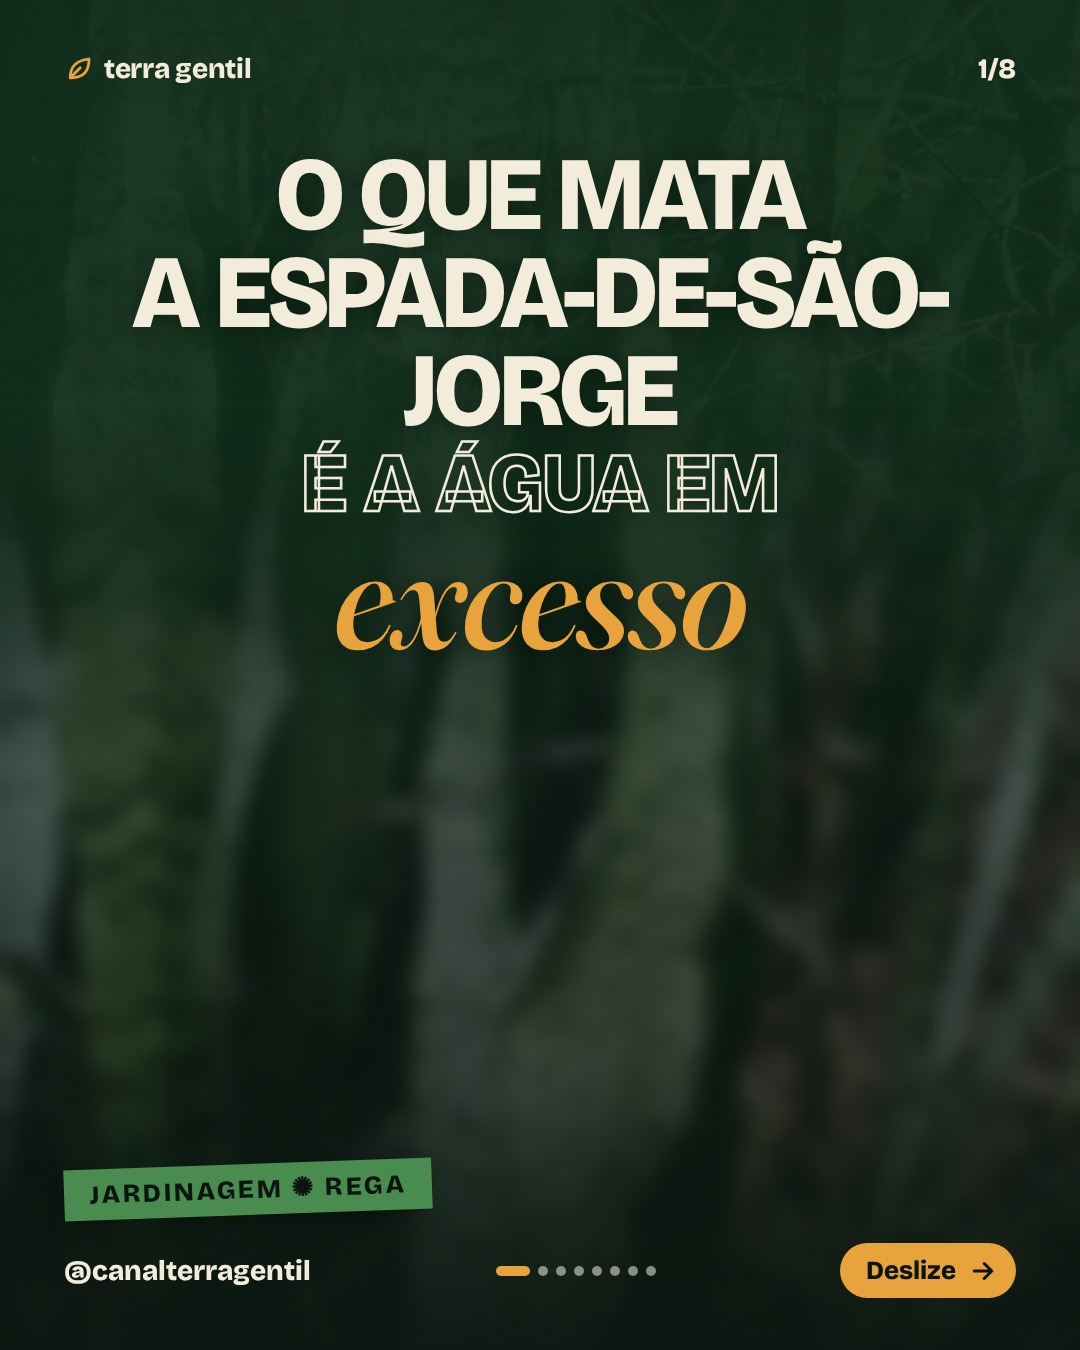
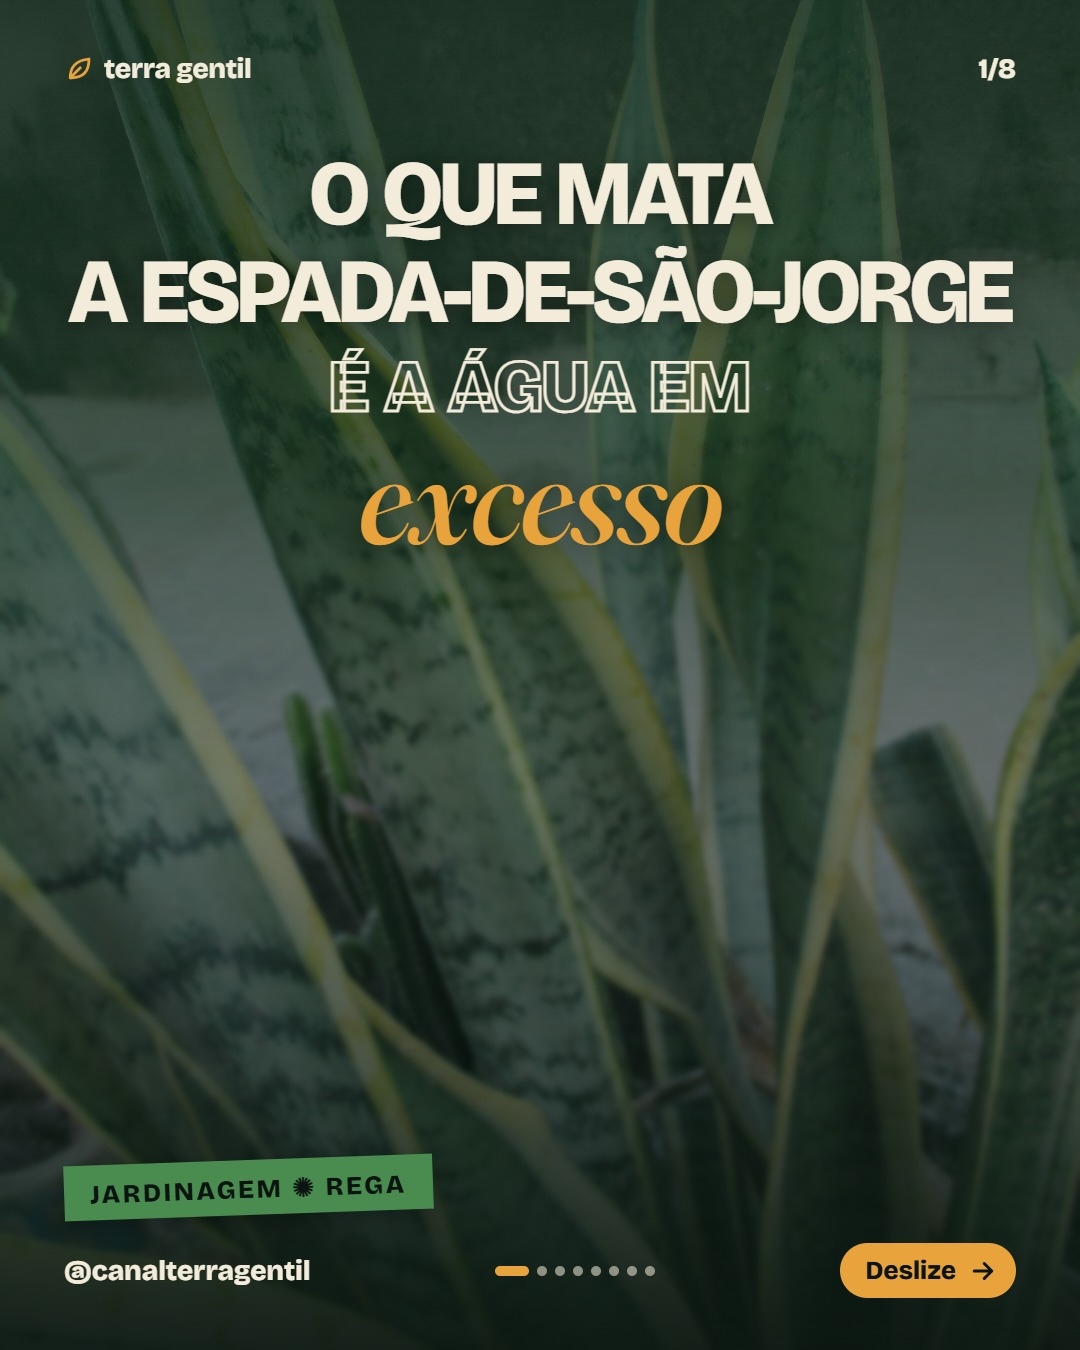
insta: titulo sem quebrar no hifen, capa mais legivel, foto curada da espada-de-sao-jorge e legenda de exemplo corrigida

diff --git a/insta-terra-gentil/carrossel/moldes/album/capa.dc.html b/insta-terra-gentil/carrossel/moldes/album/capa.dc.html
@@ -25,7 +25,7 @@ a{color:#F4ECDB}a:hover{color:#E8A33D}
     </sc-if>
   </div>
   <div style="position: absolute; inset: 0; background: {{veu}}"></div>
-  <div style="position: absolute; inset: 0; background: linear-gradient(to bottom, rgba(16,48,26,0.9) 0%, rgba(16,48,26,0.82) 38%, rgba(16,48,26,0) 58%), linear-gradient(to top, rgba(16,48,26,0.75) 0%, rgba(16,48,26,0) 20%)"></div>
+  <div style="position: absolute; inset: 0; background: linear-gradient(to bottom, rgba(16,48,26,0.72) 0%, rgba(16,48,26,0.55) 36%, rgba(16,48,26,0) 58%), linear-gradient(to top, rgba(16,48,26,0.6) 0%, rgba(16,48,26,0) 20%)"></div>
 
   <sc-if value="{{semFoto}}" hint-placeholder-val="{{true}}">
     <div style="position: absolute; top: 860px; right: 64px; display: flex; align-items: center; gap: 12px; background: rgba(16,48,26,0.7); border: 2px dashed rgba(244,236,219,0.6); border-radius: 12px; padding: 12px 20px; font-size: 22px; font-weight: 600">

diff --git a/PROGRESSO.md b/PROGRESSO.md
@@ -1,5 +1,13 @@
 # PROGRESSO Terra Gentil
 
+## AJUSTE (27/10/2026, manha): capa e titulo do carrossel
+
+**Conferido no ar:** a rotina das 04:00 gerou o post de 28/10 (IMORTAL), mesclou, e a noticia `/noticias/espada-de-sao-jorge-como-regar-sem-afogar` esta no ar (200, index, JSON-LD, sitemap, feed). Instagram segue desligado. A noticia sai com data de amanha porque a rotina escreve o dia seguinte e o site publica ao mesclar.
+
+**Corrigido:** (1) titulo longo ("espada-de-sao-jorge") nao quebra mais no hifen: `tratamento-texto.mjs` trava cada linha do h1 e encolhe todas pelo mesmo fator (`fatorDeEncolhimento`, com teste), mantendo a altura da linha; testado nos 7 moldes, sem aviso de estouro. (2) capa com desfoque e veu leves (`tratarFoto` com `capa`, ESCURECIMENTO_CAPA 30, veu do album) para a planta aparecer. (3) foto curada da espada-de-sao-jorge em `dados/fotos.json` (CC0, folhas nitidas, no lugar do mato com galhos); capa do site trocada. (4) legenda de exemplo "2 cm acima da gema" vazava no passo do molde album: agora "terra gentil".
+
+**Risco aberto:** a foto automatica escolhe so por proporcao e licenca, nao por qualidade. Como a noticia vai ao site sozinha, curar a foto de cada especie ANTES da rotina escrever o post dela (`node insta-terra-gentil/imagem/curar-cli.mjs "Especie"`).
+
 ## ESTADO (26/10/2026, fim da noite): publicacao no Instagram montada, DESLIGADA
 
 **Feito hoje:** nome cientifico em `especie` (corrige foto de cobra), desfoque/gradiente/sombra/realce de foto/titulo equilibrado nos moldes, enquadramento variado, retry do Chromium no CI. Publicacao no IG pronta e testada com IG falso: `insta-terra-gentil/publicar/instagram/` (cliente Graph API, carrossel, registro anti-duplicata). Teste de ponta a ponta no GitHub OK com o botao desligado (previa gera pacote na branch `ig-slides`, `postar-instagram.yml` confere e NAO posta).
